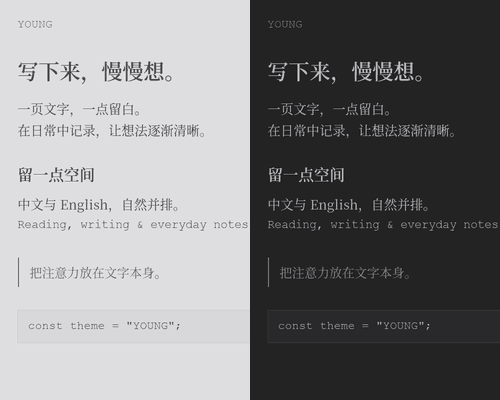
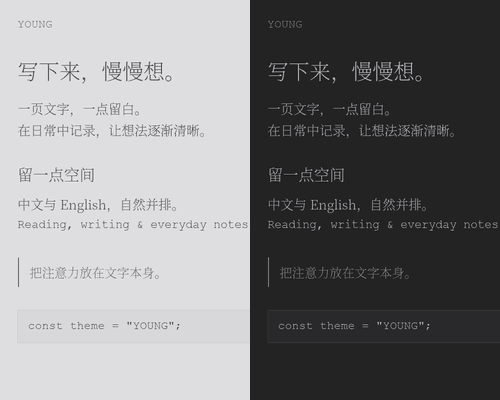
Document website-matched ExtraLight font and refresh thumbnail

diff --git a/_posts/theme/2026-10-29-young.md b/_posts/theme/2026-10-29-young.md
@@ -9,26 +9,20 @@ category: theme
 tags: [light, dark, minimal, serif, chinese]
 ---
 
-YOUNG is a pair of quiet light and dark themes for Simplified Chinese and English writing. Soft grayscale colors, serif Chinese text, Courier New Latin text, and a narrow column keep the page simple.
-
-## Typography previews
-
-![Young Light](https://raw.githubusercontent.com/ZiyanLo/young-typora/main/screenshots/young-light.png)
-
-![Young Dark](https://raw.githubusercontent.com/ZiyanLo/young-typora/main/screenshots/young-dark.png)
+YOUNG is a pair of quiet light and dark themes for Chinese and English writing. Soft grayscale colors, Chinese text matching the YOUNG website, Courier New Latin text, and a narrow column keep the page simple.
 
 ## Features
 
 - Matching Young Light and Young Dark variants.
 - 15px body text, 1.5 line height, and a 680px writing column.
-- Bundled Regular and SemiBold Chinese fonts derived from Adobe Source Han Serif SC, distributed under SIL OFL 1.1.
+- Bundled Adobe Source Han Serif SC ExtraLight Chinese font, matching the website source and weight (250), with full character coverage under SIL OFL 1.1. Courier New for Latin text.
 - Coordinated tables, code, sidebar, selection, and print styles.
 - Consistent sidebar fonts and two-line file summaries.
 
 ## Installation
 
-Download and unzip the theme. In Typora, open **Preferences → Appearance → Open Theme Folder**. Copy `young-light.css`, `young-dark.css`, and the entire `young-fonts` folder into it. Restart Typora, then select **Young Light** or **Young Dark**.
+Download and unzip the theme. In Typora, open **Preferences → Appearance → Open Theme Folder**. Copy `young-light.css`, `young-dark.css`, and the entire `young-fonts` directory into it. Restart Typora, then select **Young Light** or **Young Dark**.
 
-The font folder is required. Courier New is a system fallback and is not redistributed.
+The font folder is required. Chinese uses Source Han Serif SC ExtraLight, not MingLiU. Courier New is a system font and is not redistributed.
 
-Designed and used on macOS. Browser rendering checked. Windows and Linux have not been tested; no specific Windows unibody styling is included. Native macOS window-title fonts are not controlled by theme CSS.
+Developed on macOS. Chinese font source and weight match the YOUNG website; the bundled full font is used instead of its web subset. Windows and Linux have not been tested; no specific Windows unibody styling is included. Native macOS window-title fonts are not controlled by theme CSS.
